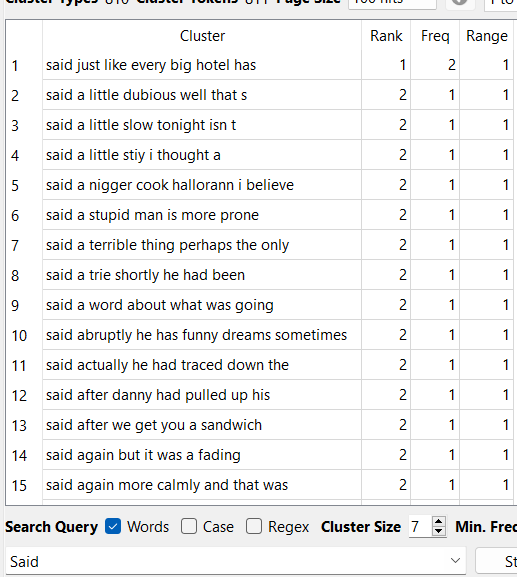
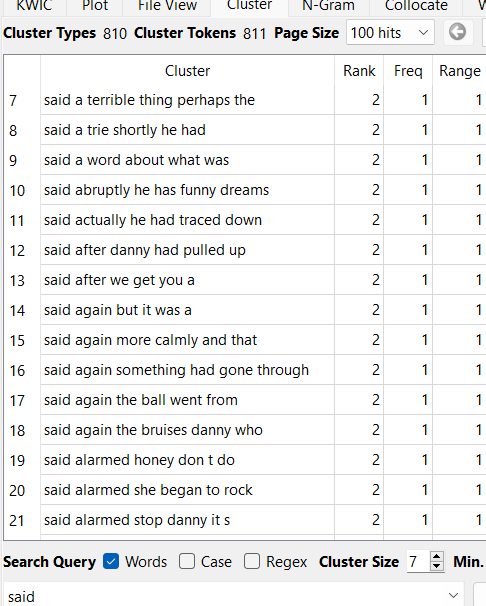
Finishing Touches

Changed region(s): [[0.0, 0.0, 1.0, 0.9983], [0.0, 0.9671, 0.0926, 0.9983]]

diff --git a/docs/Corpus Analysis.html b/docs/Corpus Analysis.html
@@ -123,7 +123,8 @@
                 </figure>
                 <br />
                 <p>I looked at two clusters within Antconc for The Shining and decided to use both
-                    Jack and Danny for them.</p>
+                    "Old", "Heard", "said", for them just to compare the Shining to the short
+                    stories.</p>
                 <br />
                 <figure>
                     <img src="images/Old%20Cluster%20the%20shinning.png" alt="The Shining" />
@@ -134,14 +135,32 @@
                     uses the word old to describe objects more than people. Although, not seen in
                     the grouping that I am showing, one of the characters describes their father as
                     "old man" which would be the only simmilarity between the tell tale heart and
-                    the shining.</p>
+                    the shining when reffering to the word "old".</p>
                 <figure>
                     <img src="images/Heard%20Cluster.png" alt="The Shining" />
                     <figcaption>Heard: 76 hits</figcaption>
                 </figure>
                 <br />
-                <p>Unlike the previous cluster, this one is very simmilar to the tell tale heart and
-                    the cask of amontillado. This cluster used the word "heard" and its most n</p>
+                <p>This cluster was interesting to me as it showed a slight difference in how both
+                    stories used the word "heard". It may sound like Im grasping at straws trying to
+                    find differences between the stories and thats partially true. But it does seem
+                    like it's used in the shining in multiple persepctives and beyond just hearing
+                    the voices of people but the moving and sounds being produced by objects while
+                    the tell tale heart seems to only use "heard" as a way to convey that an
+                    individual heard anothers voice or the sound somone makes by walking in a
+                    certain way. </p>
+                <br />
+                <figure>
+                    <img src="images/Said%20Cluster.png" alt="The Shining" />
+                    <figcaption>Said: 810 hits</figcaption>
+                </figure>
+                <br />
+                <p>This cluster is mainly here to compare the use of the word "said" between The
+                    Shining and The Cask of Amontillado. This is mainly the case because the tell
+                    tale heart only uses the word twice in two seperate sentences. The cluster made
+                    me see an interesting trend of using certain words like "after", "again", or
+                    "alarmed" after the word "said". The Cask of Amontillado hardly ever reused the
+                    same word after using "said".</p>
             </div>
             <div class="column" style="background-color:Tan; Border: solid;">
                 <h2>The Tell Tale Heart and The Cask of Amontillado</h2>
@@ -189,7 +208,7 @@
                     <figcaption>Most Interesting N-Grams</figcaption>
                 </figure>
                 <br />
-                <p>The cluster for The Tell Tale Heart was </p>
+                <p>The cluster for The Tell Tale Heart was the word "Old". </p>
                 <br />
                 <figure>
                     <img src="images/Old%20Cluster.png" alt="The Tell Tale Heart" />
@@ -239,7 +258,7 @@
                     <figcaption>Most Interesting N-Grams</figcaption>
                 </figure>
                 <br />
-                <p>The cluster for The Cask of Amontillado </p>
+                <p>The cluster for The Cask of Amontillado was the name "Amontillado"</p>
                 <br />
                 <figure>
                     <img src="images/Amontillado%20Cluster.png" alt="The Cask of Amontillado" />
@@ -253,14 +272,17 @@
             <p>The screen captures show the differences between the two authors. From their use of
                 words and feel of the sentences. Of course, there are massive differences between a
                 book and two short stories but I feel like it goes even beyond that to a point. I've
-                never read any of the text that I'm using and I only plan to do so when it would
-                benefit the asignment in doing so, so I could be wrong. Edgar Allan Poe seems to
-                write his stories in a poem like way, while Stephen King simply writes his lines
-                like normal. Edgar Allan Poe embodies one aspect of the horror and Stephen King has
-                larger variety of them.</p>
+                never read any of the text that im comparing so my observations are based soley on
+                what I've discovered while dissecting them within voyant and antconc. The two
+                authors are split with differences with a fine line. Two different eras of time and
+                two different styles of writing. Edgar Allen Poe was a wrote in the 18th century
+                while Stephen King wrote in the 20th century. Edgar Allen Poe wrote short stories
+                that had words that I've never seen before while Stepehn King wrote novels with
+                words that are more native to this day and age. </p>
             <br />
-            <a href="https://github.com/Rkd5429/Portfolio/tree/main/docs/Text%20Files"> Text
-                Files</a>
+            <a href="https://github.com/Rkd5429/Portfolio/tree/main/docs/Text%20Files">
+                <strong>Text Files</strong>
+            </a>
             <br />
         </div>
         <br />
